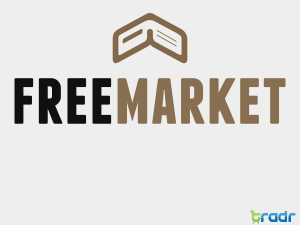
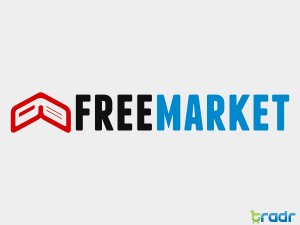
adding index.php and updating screenshot

Changed region(s): [[0.03, 0.3422, 0.99, 0.5911], [0.36, 0.0311, 0.63, 0.28]]

diff --git a/index.php b/index.php
@@ -1,0 +1,20 @@
+<?php get_header(); ?>
+  <?php freemarket_content_before(); ?>
+    <div id="content" class="<?php echo CONTAINER_CLASSES; ?>">
+    <?php freemarket_main_before(); ?>
+      <div id="main" class="<?php echo MAIN_CLASSES; ?>" role="main">
+        <div class="page-header">
+          <h1><?php _e('Latest Posts', 'freemarket');?></h1>
+        </div>
+        <?php get_template_part('loop', 'index'); ?>
+      </div><!-- /#main -->
+    <?php freemarket_main_after(); ?>
+    <?php freemarket_sidebar_before(); ?>
+      <aside id="sidebar" class="<?php echo SIDEBAR_CLASSES; ?>" role="complementary">
+      <?php freemarket_sidebar_inside_before(); ?>
+        <?php get_sidebar(); ?>
+      <?php freemarket_sidebar_inside_after(); ?>
+      </aside><!-- /#sidebar -->
+    <?php freemarket_sidebar_after(); ?>    </div><!-- /#content -->
+  <?php freemarket_content_after(); ?>
+<?php get_footer(); ?>
